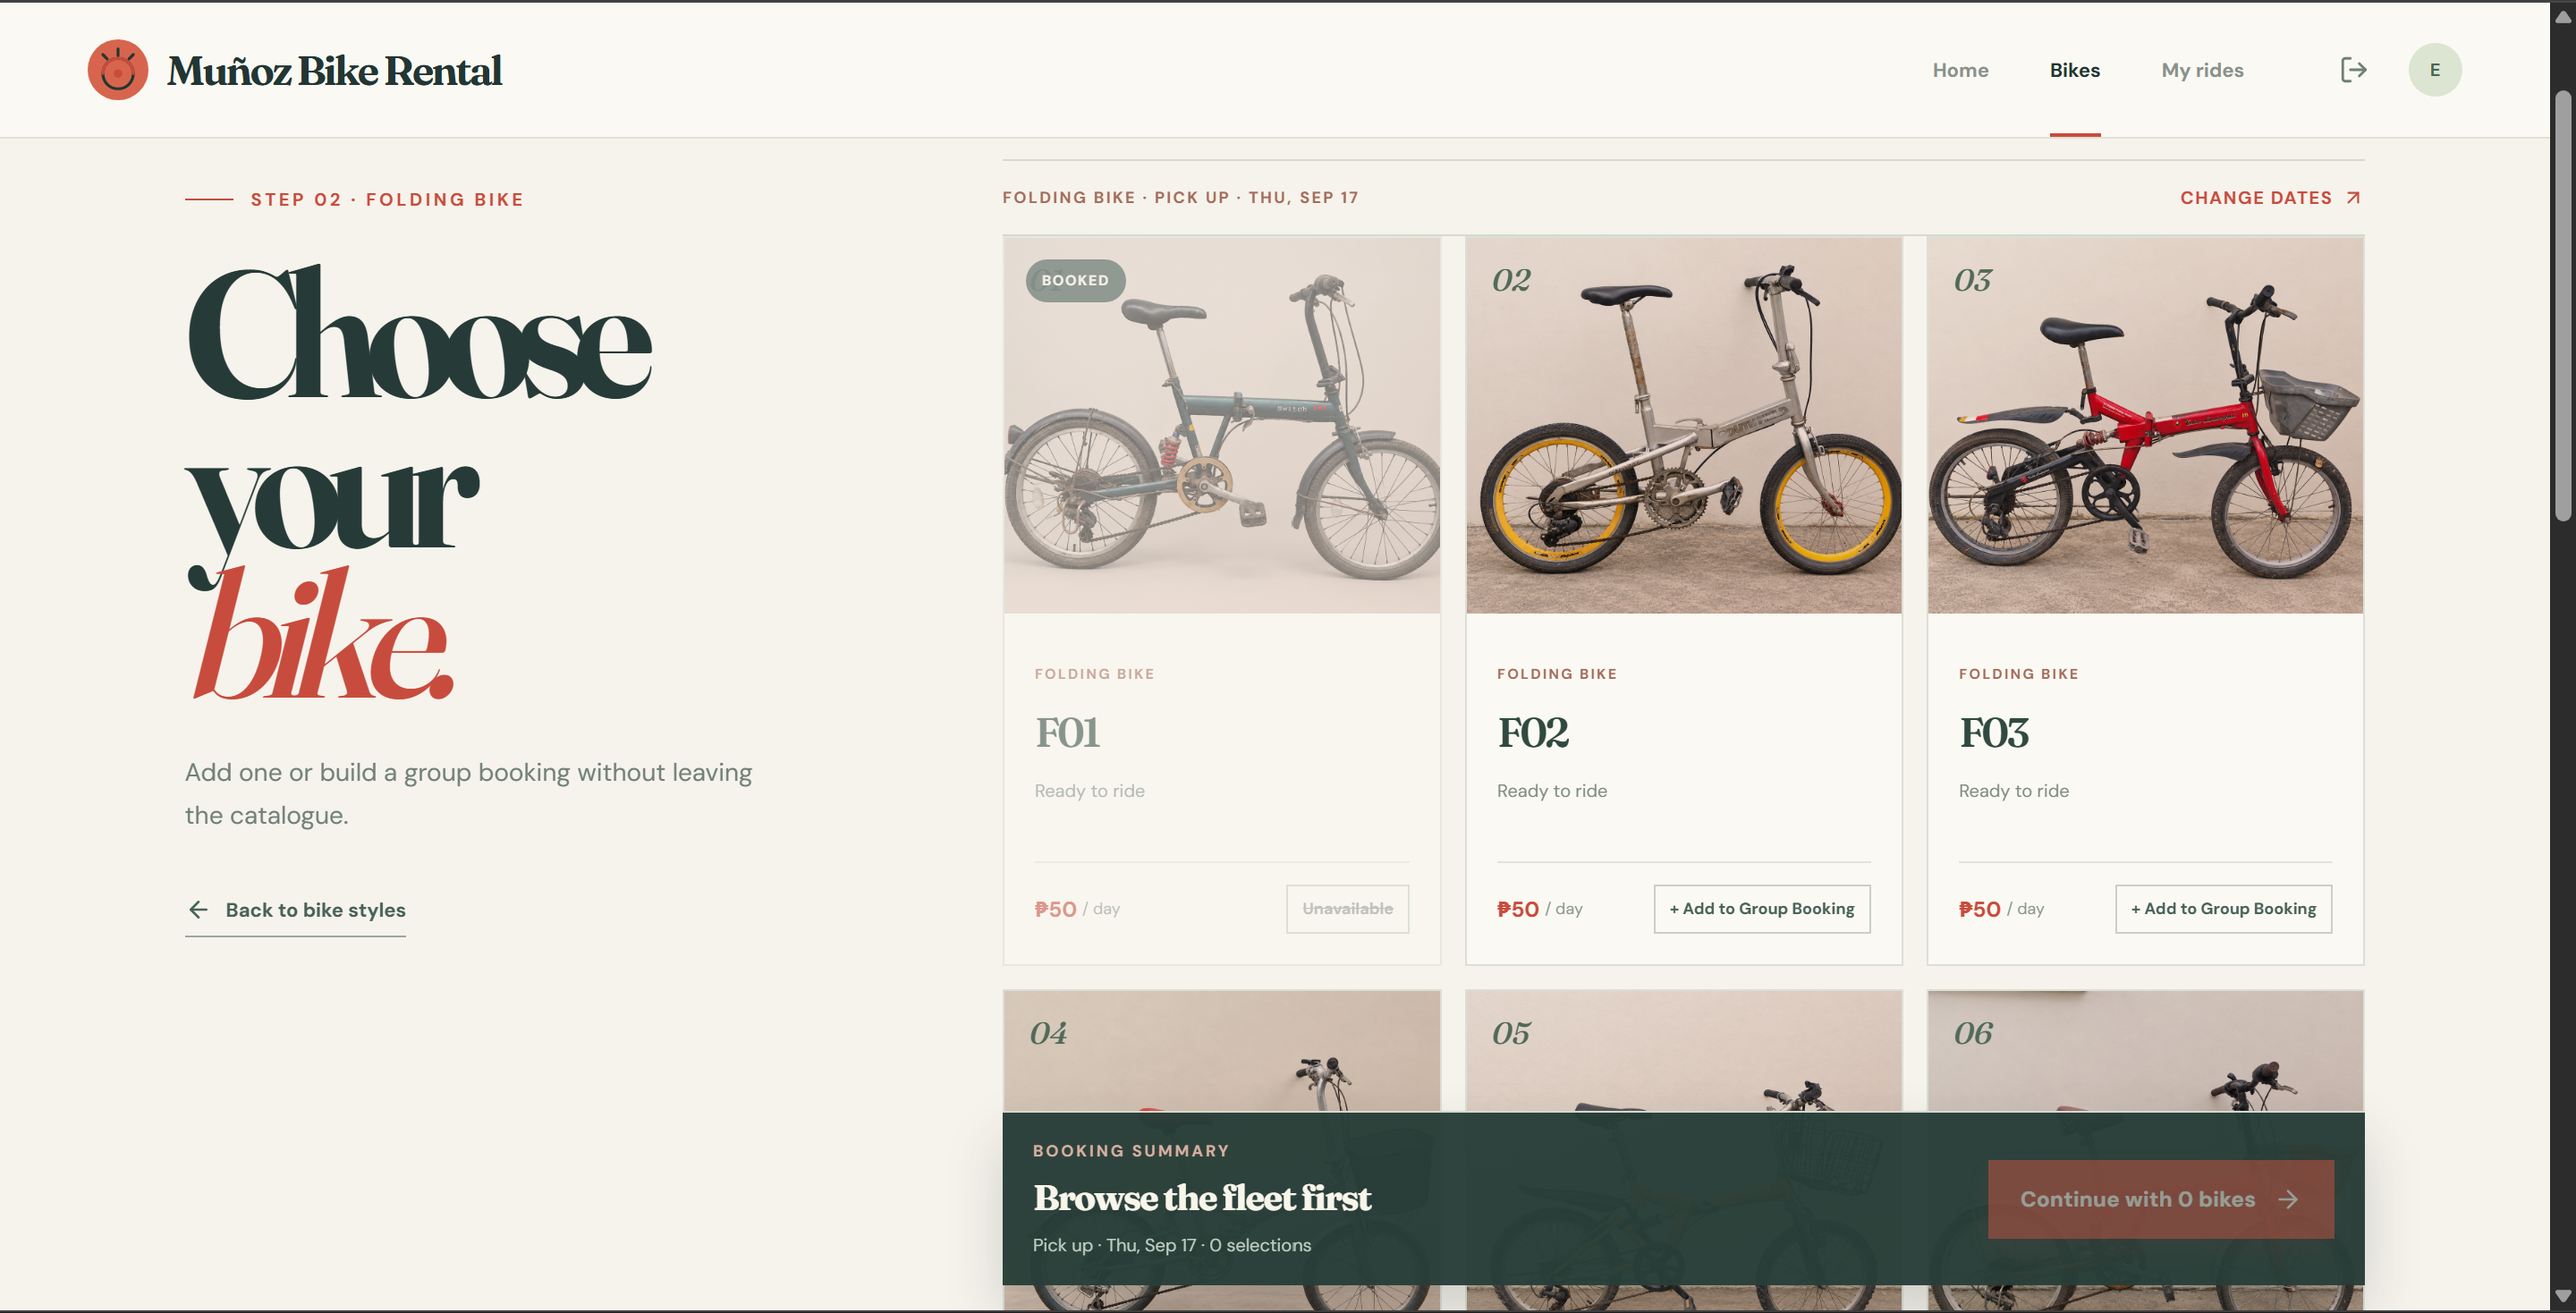
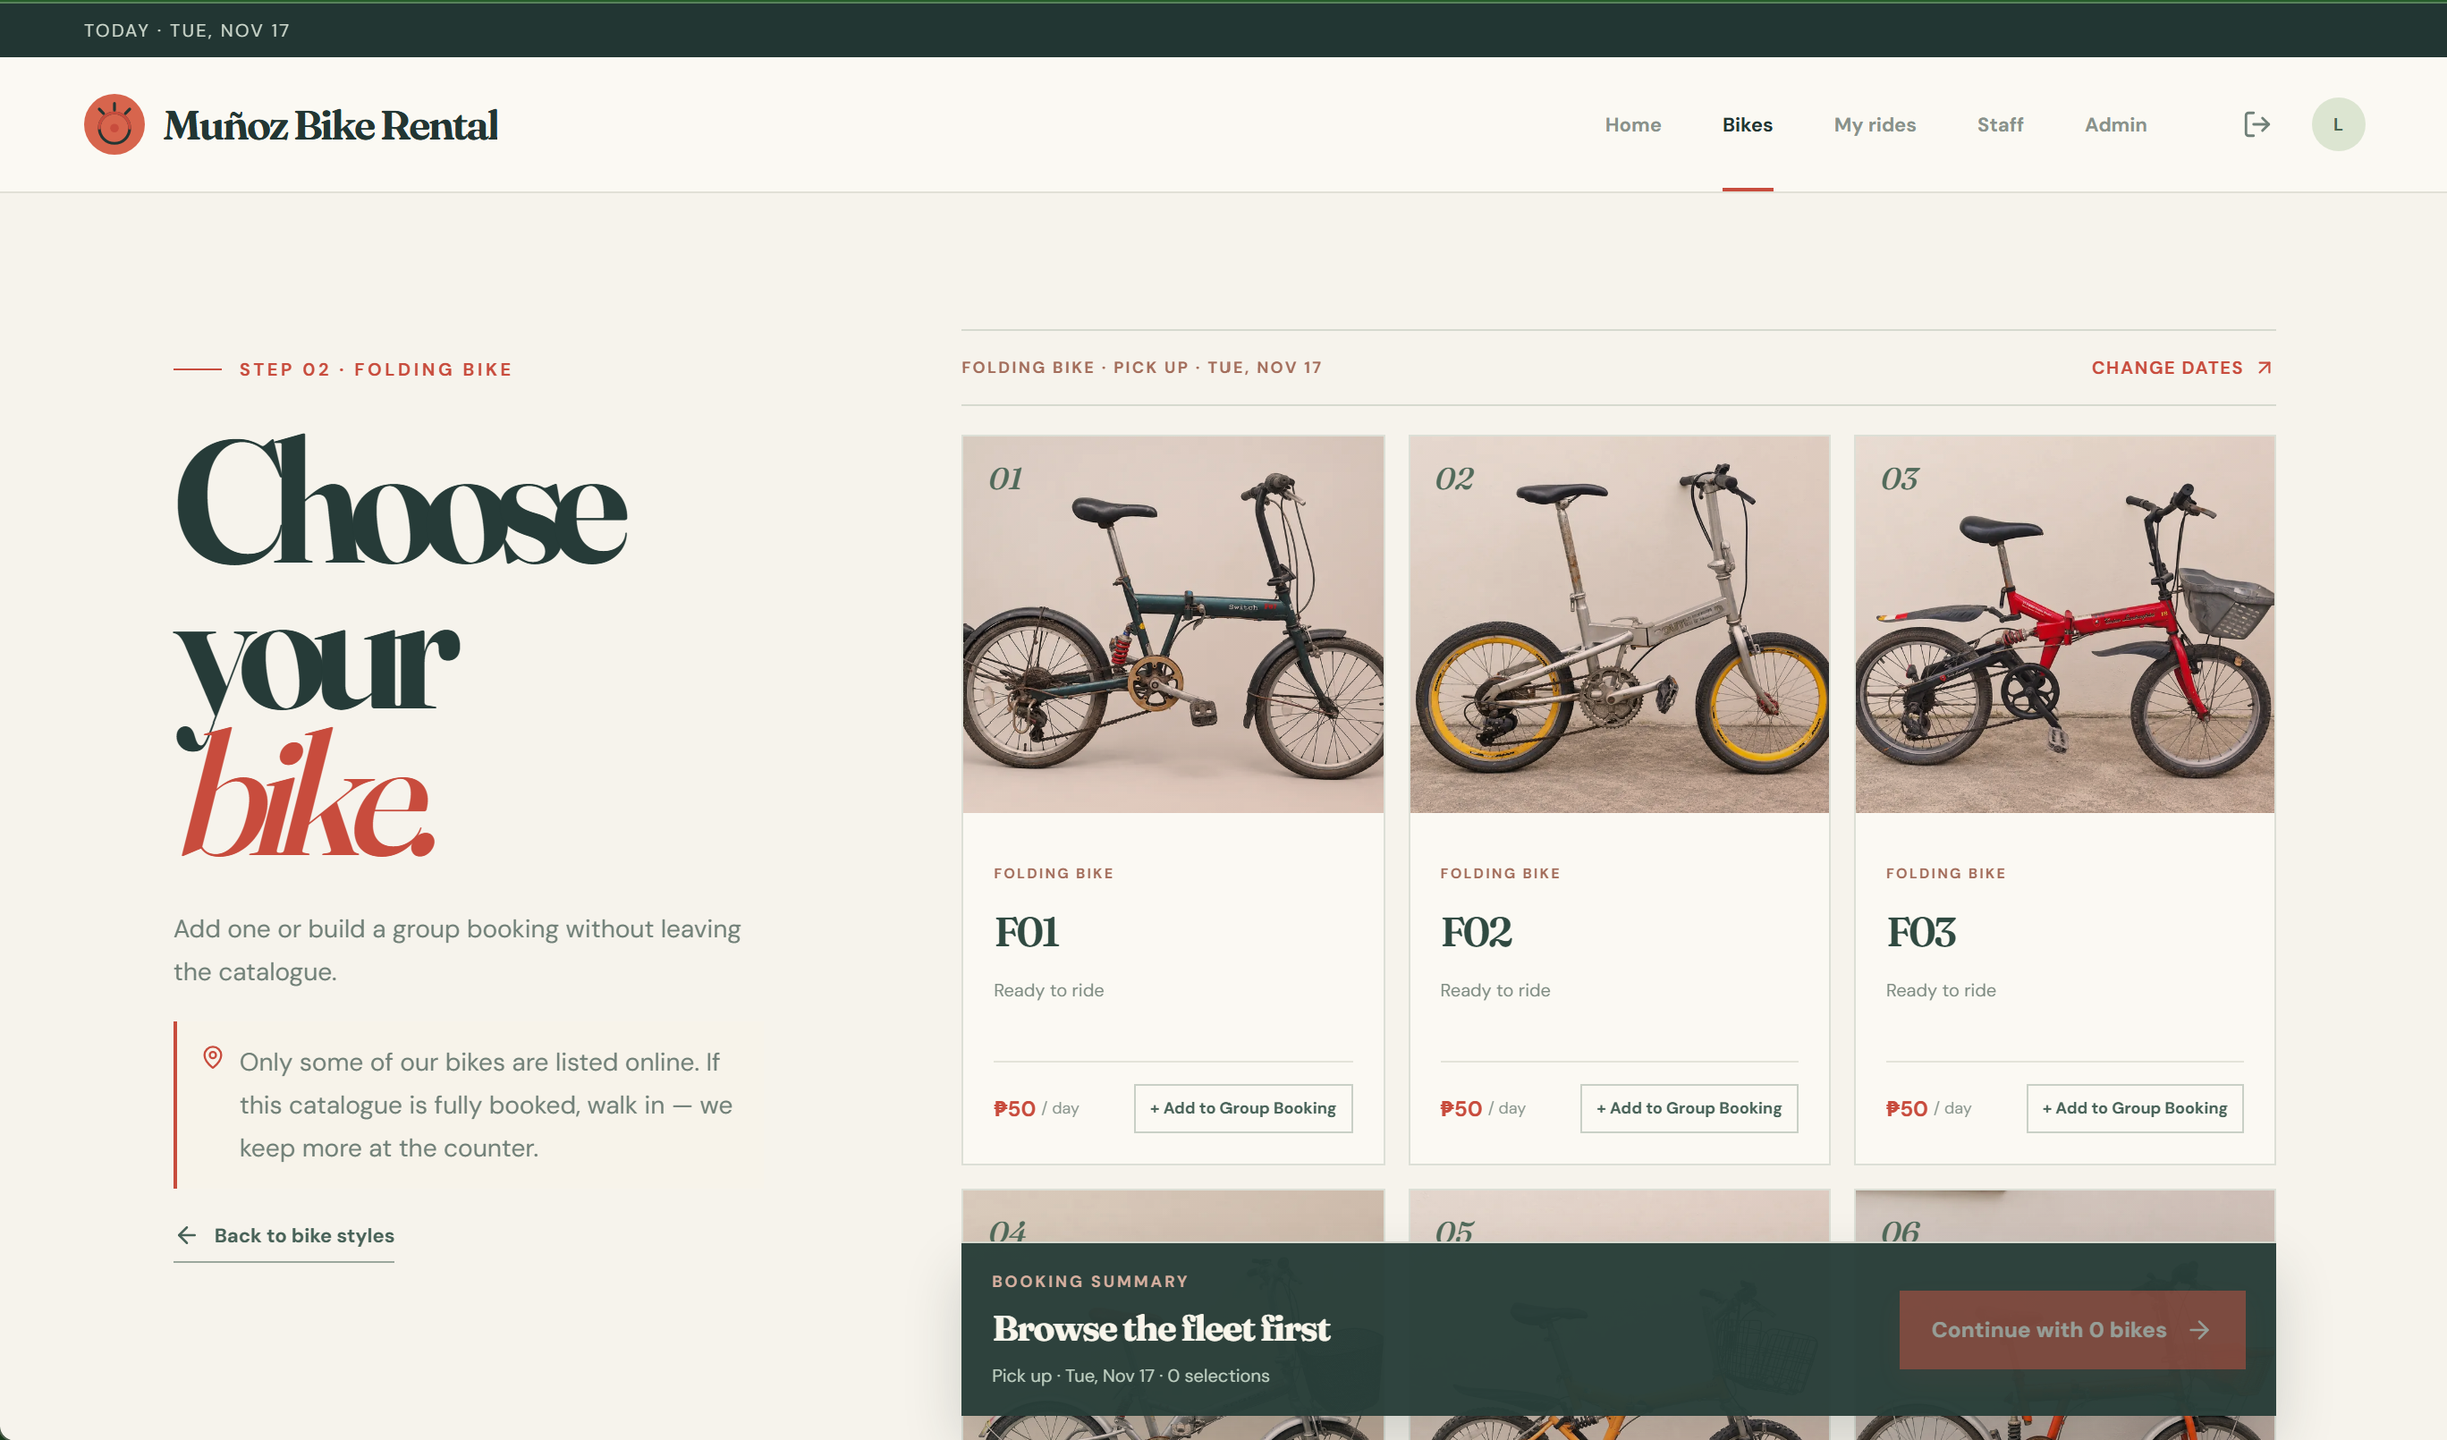
update photos and projecty

diff --git a/data/projects.ts b/data/projects.ts
@@ -117,6 +117,10 @@ export const projects: Project[] = [
         alt: "Muñoz Bike Rental payment step with cash at pickup or GCash receipt upload",
       },
       {
+        src: "/projects/munoz-reservations.webp",
+        alt: "Muñoz Bike Rental staff reservations, with cash-at-counter bookings and record or reject actions",
+      },
+      {
         src: "/projects/munoz-staff.webp",
         alt: "Muñoz Bike Rental staff counter with today’s pickup queue and a booking ready to release",
       },
@@ -126,7 +130,7 @@ export const projects: Project[] = [
     name: "Resume & Candidate RAG Engine",
     slug: "rag-search-engine",
     description:
-      "In development — retrieval-augmented generation pipeline combining pgvector semantic search with relational metadata filtering and async processing",
+      "Planning stage — retrieval-augmented generation pipeline combining pgvector semantic search with relational metadata filtering and async processing",
     tags: [
       "Python",
       "FastAPI",
@@ -193,8 +197,8 @@ export const projects: Project[] = [
     ],
     gallery: [
       {
-        src: "/projects/knowledge-graph-shot-cli.svg",
-        alt: "Placeholder for a terminal screenshot of Hermes Agent indexing the research vault from the CLI",
+        src: "/projects/knowledge-graph-hermes.webp",
+        alt: "Hermes Agent running Qwen3.5 4B locally, with the GBrain MCP server configured",
       },
       {
         src: "/projects/knowledge-graph-cover.webp",
